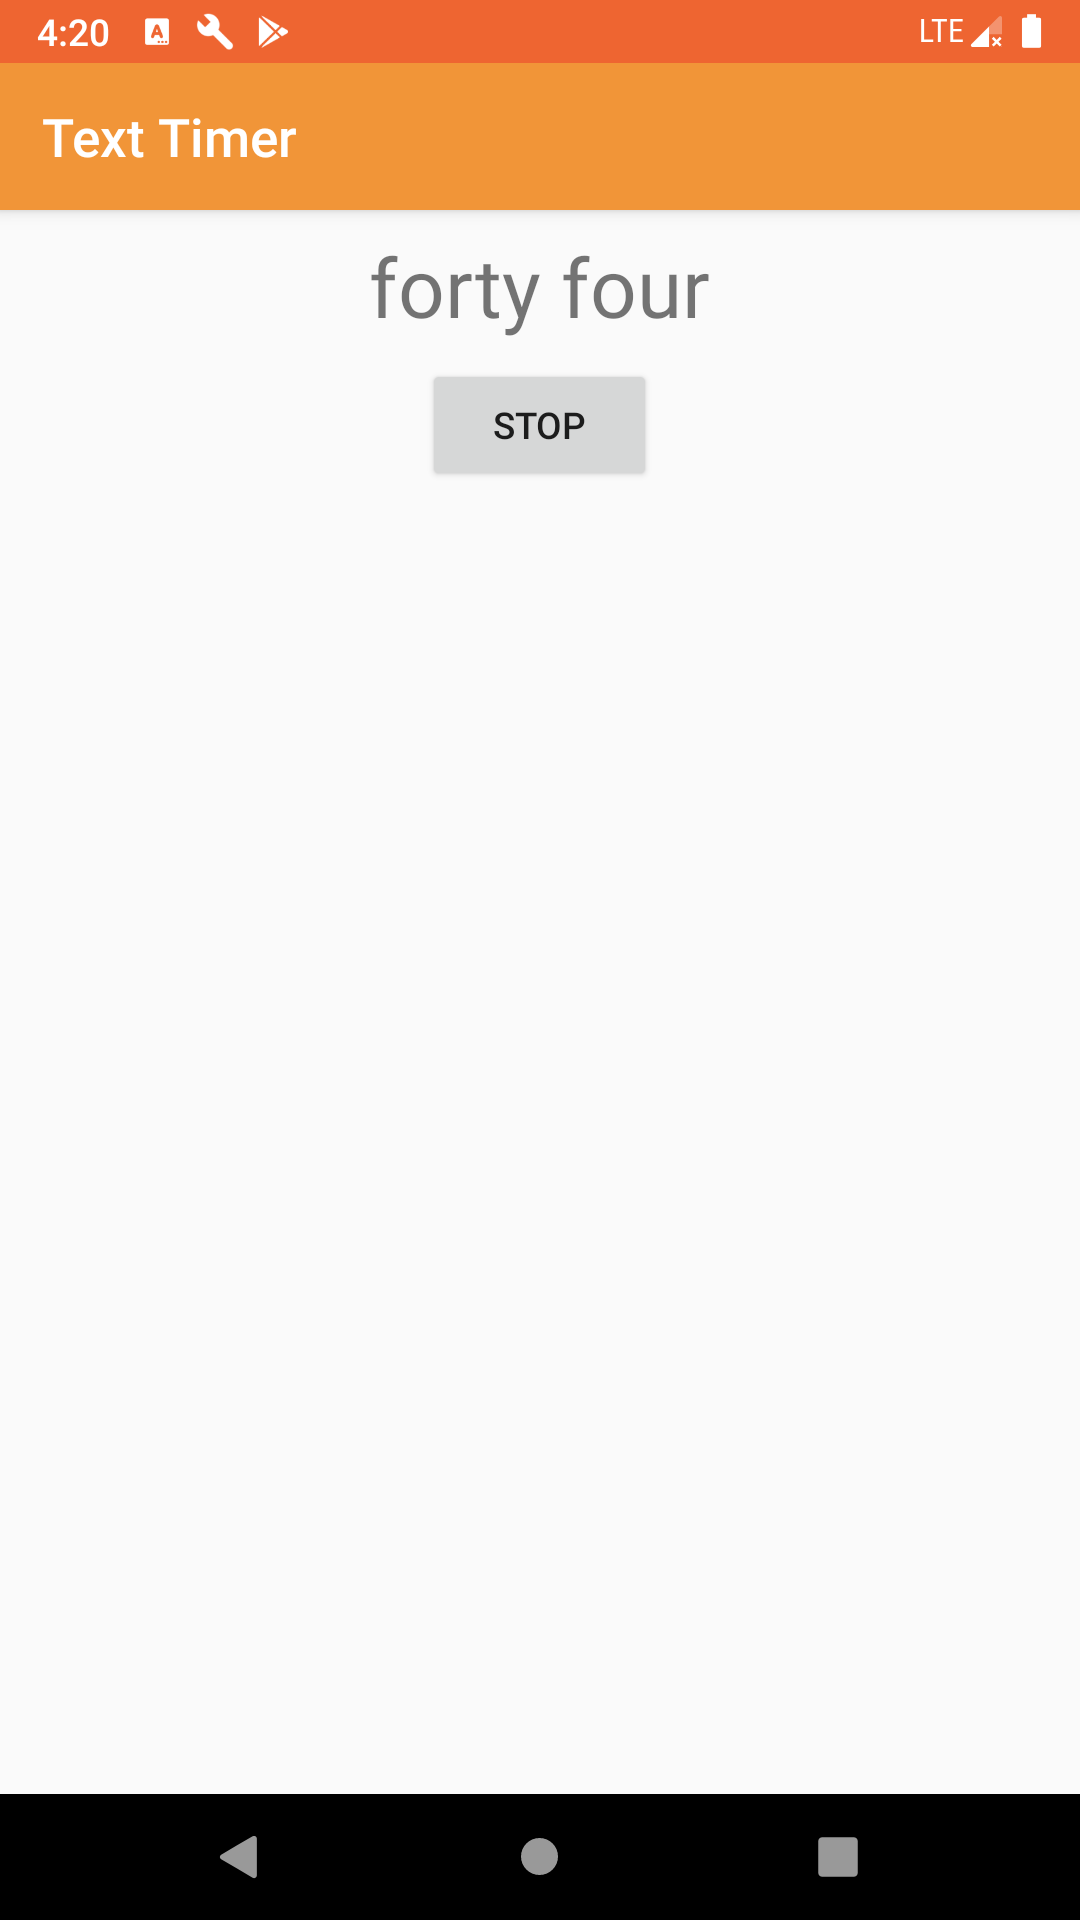
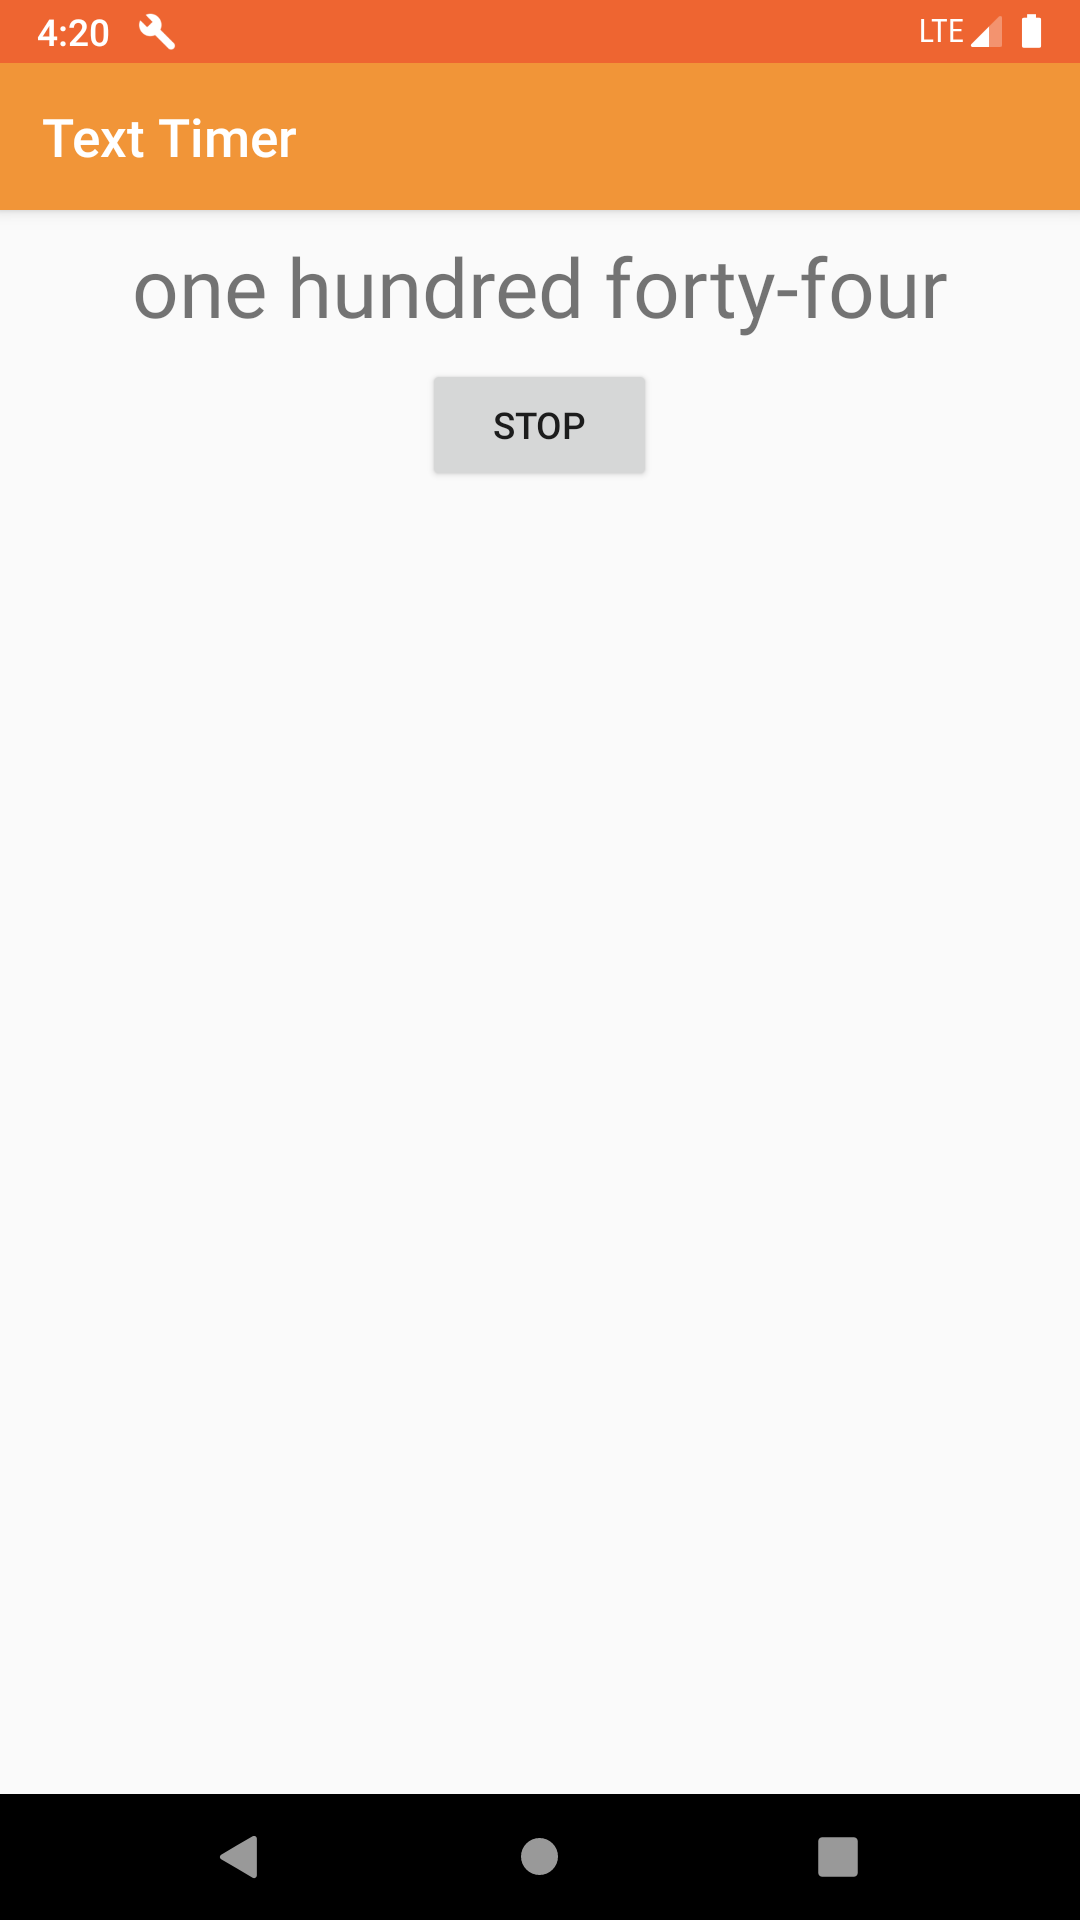
Add german locale and fix bug occurring by changing the language

diff --git a/app/src/main/java/ru/mail/track/android/alxiw/texttimer/tools/CountTextFormatter.kt b/app/src/main/java/ru/mail/track/android/alxiw/texttimer/tools/CountTextFormatter.kt
@@ -2,6 +2,7 @@ package ru.mail.track.android.alxiw.texttimer.tools
 
 import android.content.res.Resources
 import ru.mail.track.android.alxiw.texttimer.R
+import java.util.*
 
 class CountTextFormatter(resources: Resources) {
 
@@ -11,36 +12,88 @@ class CountTextFormatter(resources: Resources) {
     private val hundreds: Array<String> = resources.getStringArray(R.array.hundreds)
     private val thousands: Array<String> = resources.getStringArray(R.array.thousands)
 
-    fun formatCountToText(timerCount: Int): String {
-        var result = ""
+    fun formatCountToText(timerCount: Int): String = when {
+        Locale.getDefault().language == "de" -> german(timerCount)
+        Locale.getDefault().language == "ru" -> russian(timerCount)
+        else -> default(timerCount)
+    }
+
+    private fun default(timerCount: Int): String {
+        var suffix = ""
+
+        if (timerCount / 10 % 10 > 1) {
+            if (suffix.isNotEmpty()) suffix = "$suffix "
+            suffix += tens[timerCount / 10 % 10 - 1]
+        }
+
+        if (timerCount / 10 % 10 == 1) {
+            if (suffix.isNotEmpty()) suffix = "$suffix "
+            suffix += if (timerCount % 10 == 0) tens[0] else teens[timerCount % 10 - 1]
+        }
+
+        if (timerCount % 10 != 0 && timerCount / 10 % 10 != 1) {
+            if (suffix.isNotEmpty()) suffix = "$suffix-"
+            suffix += units[timerCount % 10 - 1]
+        }
+
+        return "${buildPrefix(timerCount)} $suffix"
+    }
+
+    private fun german(timerCount: Int): String {
+        var suffix = ""
+
+        if (timerCount / 10 % 10 > 1) {
+            suffix += tens[timerCount / 10 % 10 - 1]
+        }
+
+        if (timerCount / 10 % 10 == 1) {
+            suffix += if (timerCount % 10 == 0) tens[0] else teens[timerCount % 10 - 1]
+        }
+
+        if (timerCount % 10 != 0 && timerCount / 10 % 10 != 1) {
+            if (suffix.isNotEmpty()) suffix = "und$suffix"
+            suffix = "${units[timerCount % 10 - 1]}$suffix"
+        }
+
+        return "${buildPrefix(timerCount)}$suffix"
+    }
+
+    private fun russian(timerCount: Int): String {
+        var suffix = ""
+
+        if (timerCount / 10 % 10 > 1) {
+            if (suffix.isNotEmpty()) suffix = "$suffix "
+            suffix += tens[timerCount / 10 % 10 - 1]
+        }
+
+        if (timerCount / 10 % 10 == 1) {
+            if (suffix.isNotEmpty()) suffix = "$suffix "
+            suffix += if (timerCount % 10 == 0) tens[0] else teens[timerCount % 10 - 1]
+        }
+
+        if (timerCount % 10 != 0 && timerCount / 10 % 10 != 1) {
+            if (suffix.isNotEmpty()) suffix = "$suffix "
+            suffix += units[timerCount % 10 - 1]
+        }
+
+        return "${buildPrefix(timerCount)} $suffix"
+    }
+
+    private fun buildPrefix(timerCount: Int): String {
+        var prefix = ""
 
         if (timerCount > 1000) {
             return "∞"
         }
 
         if (timerCount / 1000 != 0) {
-            result += thousands[timerCount / 1000 - 1]
+            prefix += thousands[timerCount / 1000 - 1]
         }
 
         if (timerCount / 100 != 0) {
-            result += hundreds[timerCount / 100 - 1]
+            prefix += hundreds[timerCount / 100 - 1]
         }
 
-        if (timerCount / 10 % 10 > 1) {
-            if (result.isNotEmpty()) result = "$result "
-            result += tens[timerCount / 10 % 10 - 1]
-        }
-
-        if (timerCount / 10 % 10 == 1) {
-            if (result.isNotEmpty()) result = "$result "
-            result += if (timerCount % 10 == 0) tens[0] else teens[timerCount % 10 - 1]
-        }
-
-        if (timerCount % 10 != 0 && timerCount / 10 % 10 != 1) {
-            if (result.isNotEmpty()) result = "$result "
-            result += units[timerCount % 10 - 1]
-        }
-
-        return result
+        return prefix
     }
 }

diff --git a/app/src/main/java/ru/mail/track/android/alxiw/texttimer/TimerActivity.kt b/app/src/main/java/ru/mail/track/android/alxiw/texttimer/TimerActivity.kt
@@ -72,7 +72,7 @@ class TimerActivity : AppCompatActivity() {
         if (savedInstanceState != null) {
             timerCount = savedInstanceState.getLong(this.getString(R.string.timer_count), 0L)
             textView.text = timeCountFormatter.formatCountToText(timerCount.toInt())
-            buttonText = savedInstanceState.getString(this.getString(R.string.button_text), startButtonText)
+            buttonText = if (savedInstanceState.getString(this.getString(R.string.button_text), startButtonText) == "1") getString(R.string.stop) else getString(R.string.start)
             button.text = buttonText
         } else {
             buttonText = startButtonText
@@ -101,7 +101,7 @@ class TimerActivity : AppCompatActivity() {
 
     override fun onSaveInstanceState(outState: Bundle?) {
         outState?.putLong(this.getString(R.string.timer_count), timerCount)
-        outState?.putString(this.getString(R.string.button_text), buttonText)
+        outState?.putString(this.getString(R.string.button_text), if (buttonText == getString(R.string.stop)) "1" else "0")
         super.onSaveInstanceState(outState)
     }
 }

diff --git a/README.md b/README.md
@@ -2,7 +2,7 @@
 
 <img align="right" width="120" src="img/sample-icon.png">
 
-The project is a simple Android application with two activities developed in [Kotlin](https://github.com/JetBrains/kotlin) as a training task at the very start of the Android App Development Course by the [Technotrack](https://track.mail.ru/) educational project. The application represents a stopwatch, which counts upwards from zero for measuring elapsed time, showing the time in the way how we pronounce it, e.g. _forty four_ for 44. The interface is available in English and in Russian. Appropriate language will be applied, depending on your system language.
+The project is a simple Android application with two activities developed in [Kotlin](https://github.com/JetBrains/kotlin) as a training task at the very start of the Android App Development Course by the [Technotrack](https://track.mail.ru/) educational project. The application represents a stopwatch, which counts upwards from zero for measuring elapsed time, showing the time in the way how we pronounce it, e.g. `one hundred forty-four` for 144. The interface is available in German, Russian and English by deafult. Appropriate language will be applied, depending on your system language.
 
 ## Usage
 
